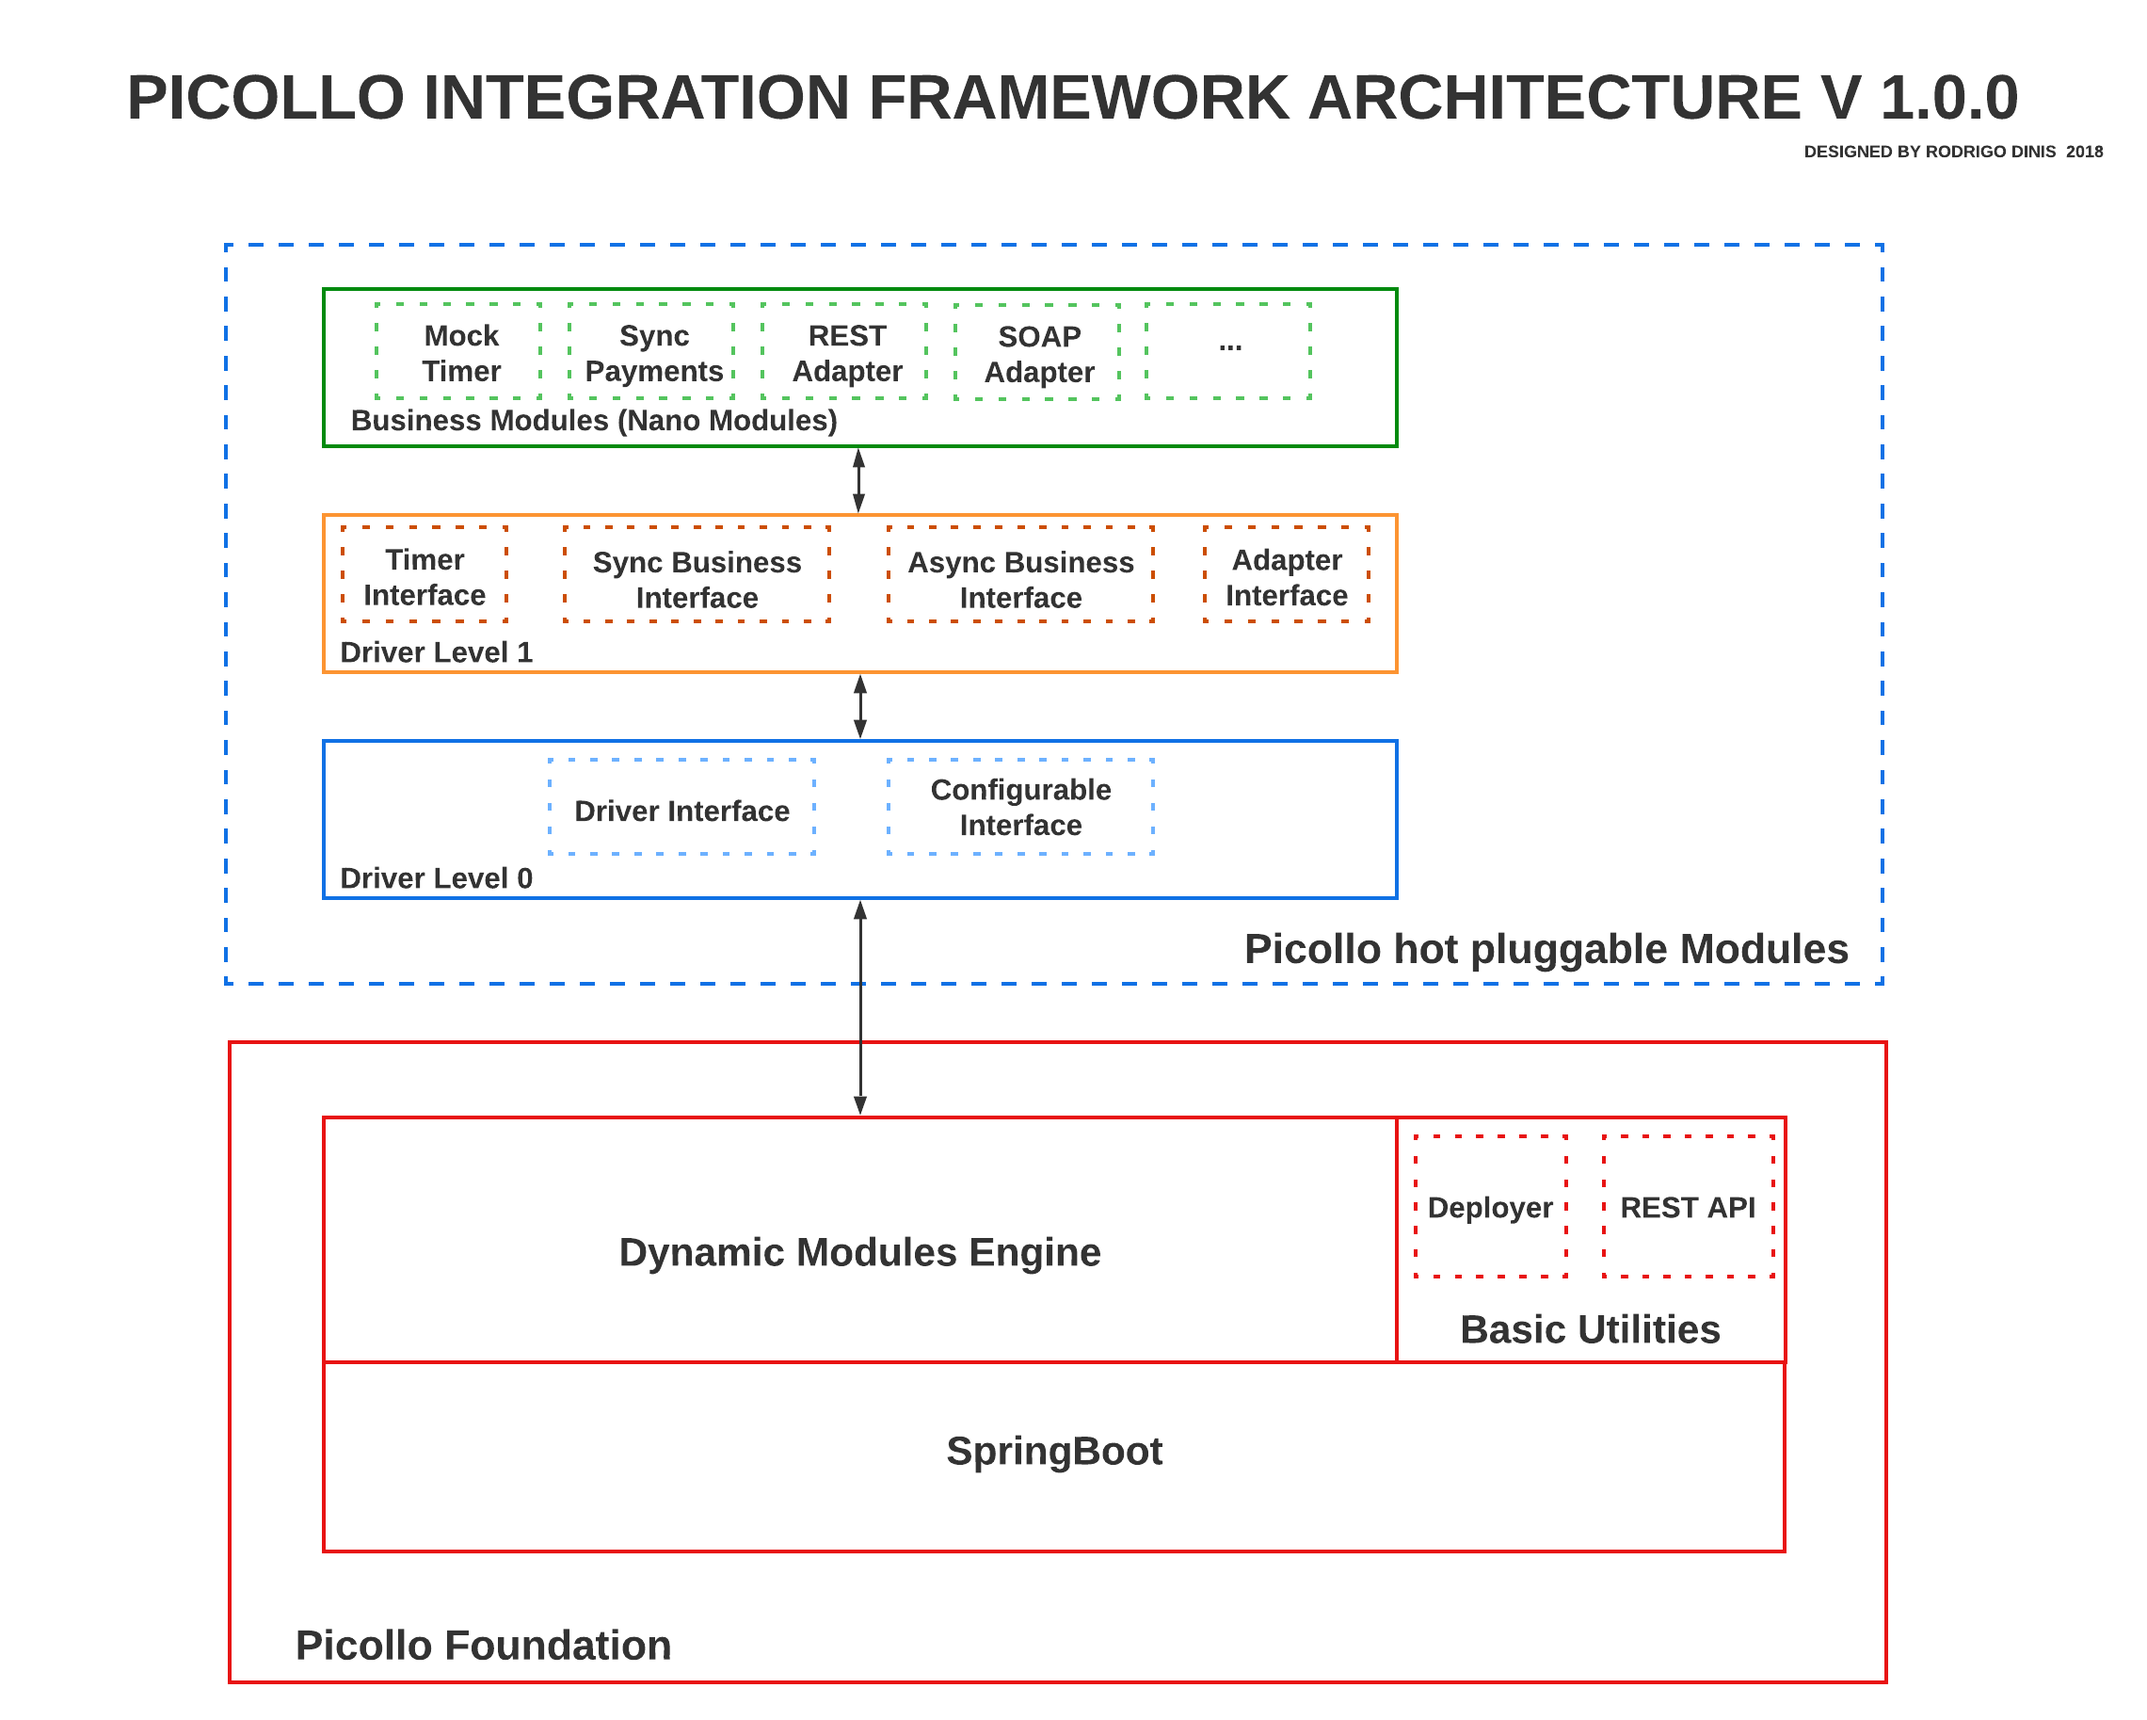
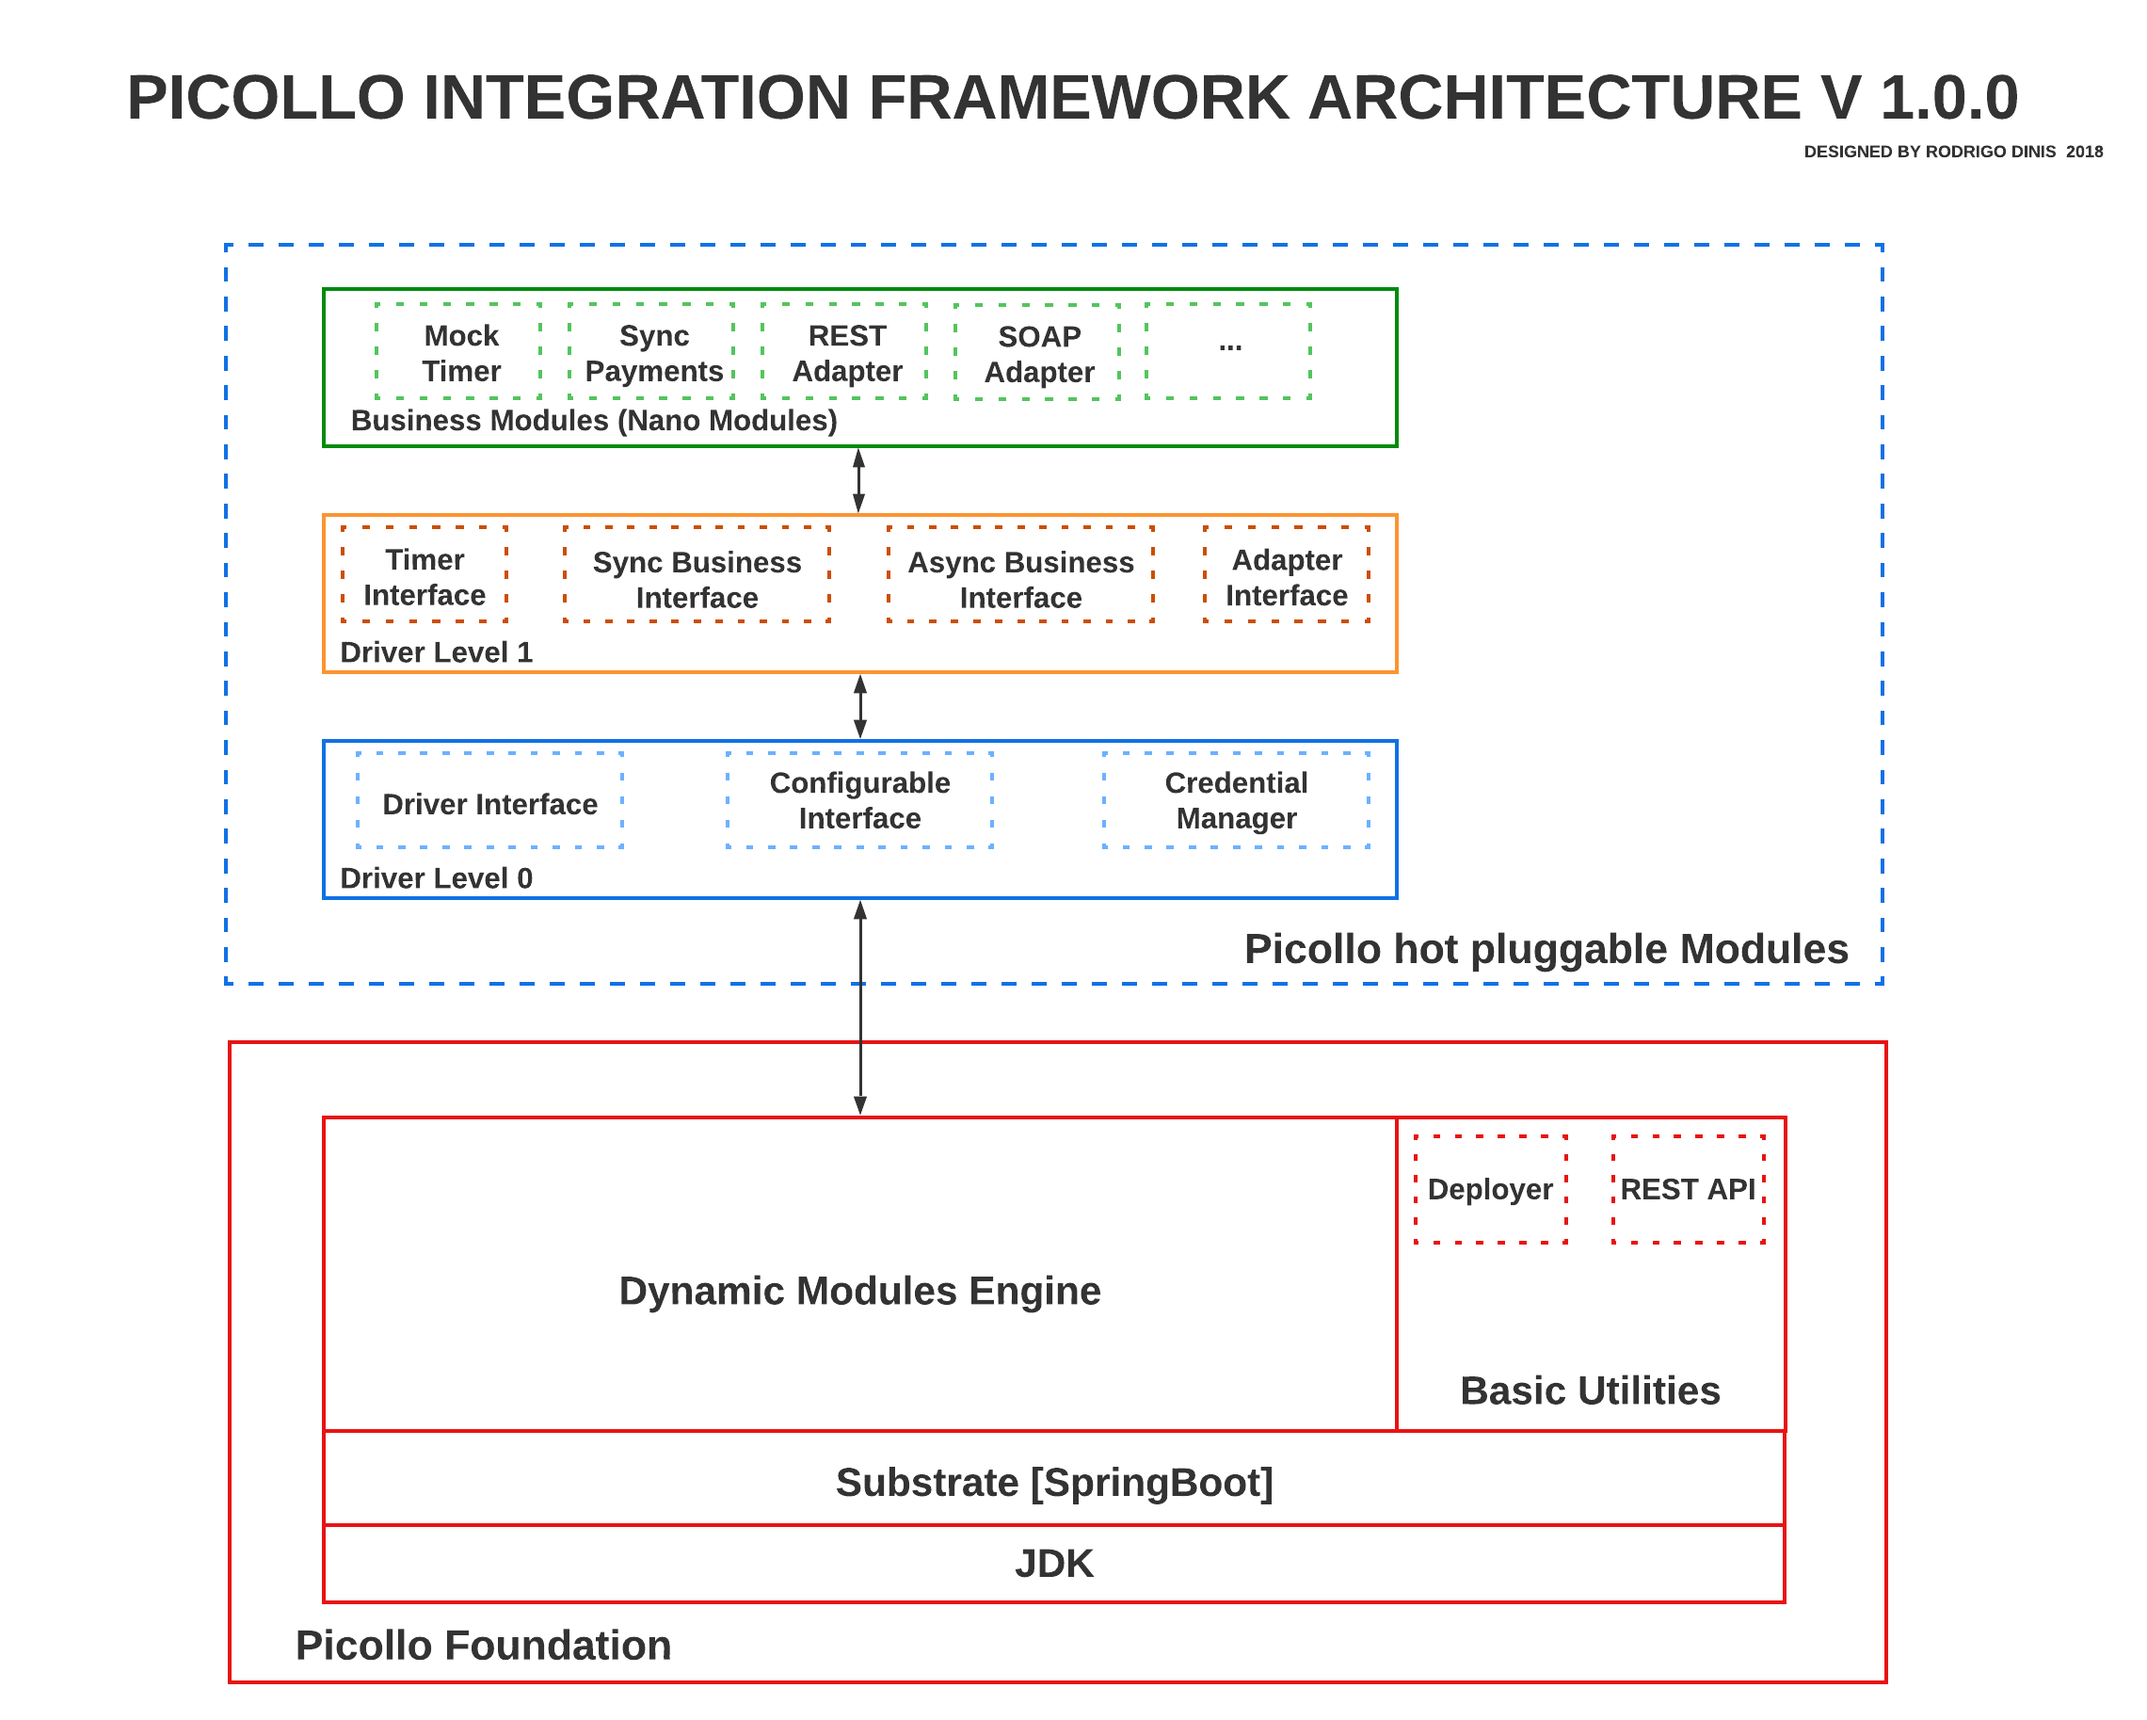
Updated documentation

diff --git a/README.md b/README.md
@@ -1,16 +1,15 @@
 # Picollo Integration Core Module
 
-Picollo is a modular solution designed for systems integration, built on open-source Java-based SpringBoot and Spring frameworks.
+Picollo is a modular solution designed for systems integration, built on open-source Java-based SpringBoot and Spring frameworks (*1).
 
 It combines the ease of development of production-grade Spring-based applications with the flexibility of a modular dynamic engine. This fusion of SpringBoot with dynamic modules empowers Picollo to deploy components and configurations at runtime, making it a continuously available service. Hence, Picollo is often referred to as "Picollo the non-stop service", serving both systems integration and microservices creation needs.
 
-The roadmap for Picollo aims to transform it from a single node execution module into a highly available and scalable platform for developing nano modules. The term "nano modules" describes the capability to deploy business logic in small, granular modules, seamlessly integrated into the Picollo service in a non-stop manner.
+The roadmap for Picollo aims to transform it from a single node execution module into a highly available and scalable platform for developing nano modules (integration interfaces or microservices). The term "nano modules" describes the capability to deploy business logic in small, granular modules, seamlessly integrated into the Picollo service in a non-stop manner.
 
+(*1): The substrate to run Picollo is SpringBoot nowadays, however it may have another variants in the future with Quarkus and other lightweight options. 
 
 ## Features
 The picture below presents Picollo's node components that are part of its architecture:
-
-P.S.: it is called Picollo's node because you can have many nodes of Picollo with different configurations and nano modules running together (not as a cluster yet, this is another plan in the road map).
 
 ![Picollo Architecture](./code/docs/Picollo-Components.png)
 
@@ -23,12 +22,12 @@ The Picollo Foundation is the basic framework structure for the entire backend s
 
 The Picollo Foundation is composed of the following internal components:
 
-- SpringBoot
+- Substrate
 - Basic Utilities
 - Dynamic Modules Engine
 
-SpringBoot is an open-source Java framework used to create Microservices (In the road map Picollo to support Quarkus). On top of SpringBoot we have the Basic Utilities and Dynamic Module Engine.
-The Basic Utilities module is where the core basic most important functionalities are located, in the picture you can see we have the Deployer and REST API functionalities, they are responsible for deploying nano modules and offer a RESTful API to manage the Picollo node.
+The Substrate is implemented with SpringBoot which is an open-source Java framework used to create Microservices (In the Picollo's development road map it should support also Quarkus). On top of the Substrate we have the Basic Utilities and Dynamic Module Engine.
+The Basic Utilities module is where the core basic most important functionalities are located, in the picture you can see we have the Deployer and REST API functionalities. These are responsible for deploying nano modules and offer a RESTful API to manage the Picollo node respectively.
 Dynamic Modules Engine is the modular system for Java that provides the ability to support a pluggable architecture of hot swap modules. 
 
 On top of the Picollo Foundation we find the Picollo Hot Pluggable Modules, where the following internal components are:
@@ -37,12 +36,12 @@ On top of the Picollo Foundation we find the Picollo Hot Pluggable Modules, wher
 - Driver Level 1
 - Nano Modules
 
-The Driver Level 0 provides the dynamic interfaces Driver Interface and Configurable Interface. The first is to provide a generic driver hook whereas the second supplies the configuration interface responsible for the nano module properties.
-Regarding the Driver Level 1, it is an implementation of the level 0, bringing higher level horizontal backend interfaces based on the hexagonal architecture.
-The hexagonal architecture, as we know, has business model in the core and adapters to interact with the external systems. On the Driver Level 1 the Timer, Sync Business, and Async Business are interfaces for implementing the business model whereas the Adapter Interface, as the name says, is used as adapter for external I/O. 
+The Driver Level 0 provides the dynamic interfaces Driver Interface, Credential Manager and Configurable Interface. The first is to provide a generic driver hook whereas the second provides configurable vault for credentials, and the last supplies the configuration interface responsible for the nano module configuration properties.
+Regarding the Driver Level 1, it is an implementation of the level 0, bringing higher level horizontal backend interfaces based on the hexagonal architecture (https://en.wikipedia.org/wiki/Hexagonal_architecture_(software)).
+The hexagonal architecture, as we know, has business model in the core and adapters to interact with the external systems. On the Driver Level 1 the Timer, Sync Business, and Async Business are interfaces for implementing the business model whereas the Adapter Interface, as the name says, is used as adapter for external system interactions (I/O). 
 For more details about the Driver Level 1 see the wiki documentation.
 
-Finally, the top level components are the Nano Modules. They are dynamic business and I/O adapter modules included in runtime into the Picollo node. Here is where the logic is customized, processed, data is read, transformed, and written. The picture presents the following custom modules:
+Finally, the top level components are the Nano Modules. They are dynamic business and I/O adapter modules included in runtime into the Picollo node. Here is where the logic is customized, processed, data is read, transformed, and written. The picture presents the following dummy custom modules:
 
 - Mock Timer
 - Sync Payments
@@ -50,7 +49,7 @@ Finally, the top level components are the Nano Modules. They are dynamic busines
 - SOAP Adapter
 
 The Mock Timer is a dummy module processing timer batch processes, it implements the Timer Interface on Driver Level 1 layer.  
-The Sync Payments is a business logic module to process payments created here as a sample scenario. In this scenario, the Sync Payment module receives payments from a system (SAP for instance) through a RESTful API, using the REST Adapter to connect and fetch data the system. After fetching the data it is processed by the Sync Payment module which will use the SOAP Adapter to send the processed payment to the Accounting System (Another SAP module for instance) using the SOAP Adapter.    
+The Sync Payments is a dummy business logic module to process payments created here as a sample scenario. In this scenario, the Sync Payment module receives payments from a system (SAP for instance) through a RESTful API, using the REST Adapter to connect and fetch data the system. After fetching the data it is processed by the Sync Payment module which will use the SOAP Adapter to send the processed payment to the Accounting System (Another SAP module for instance) using the SOAP Adapter.    
 
 ## Folder structure
 
